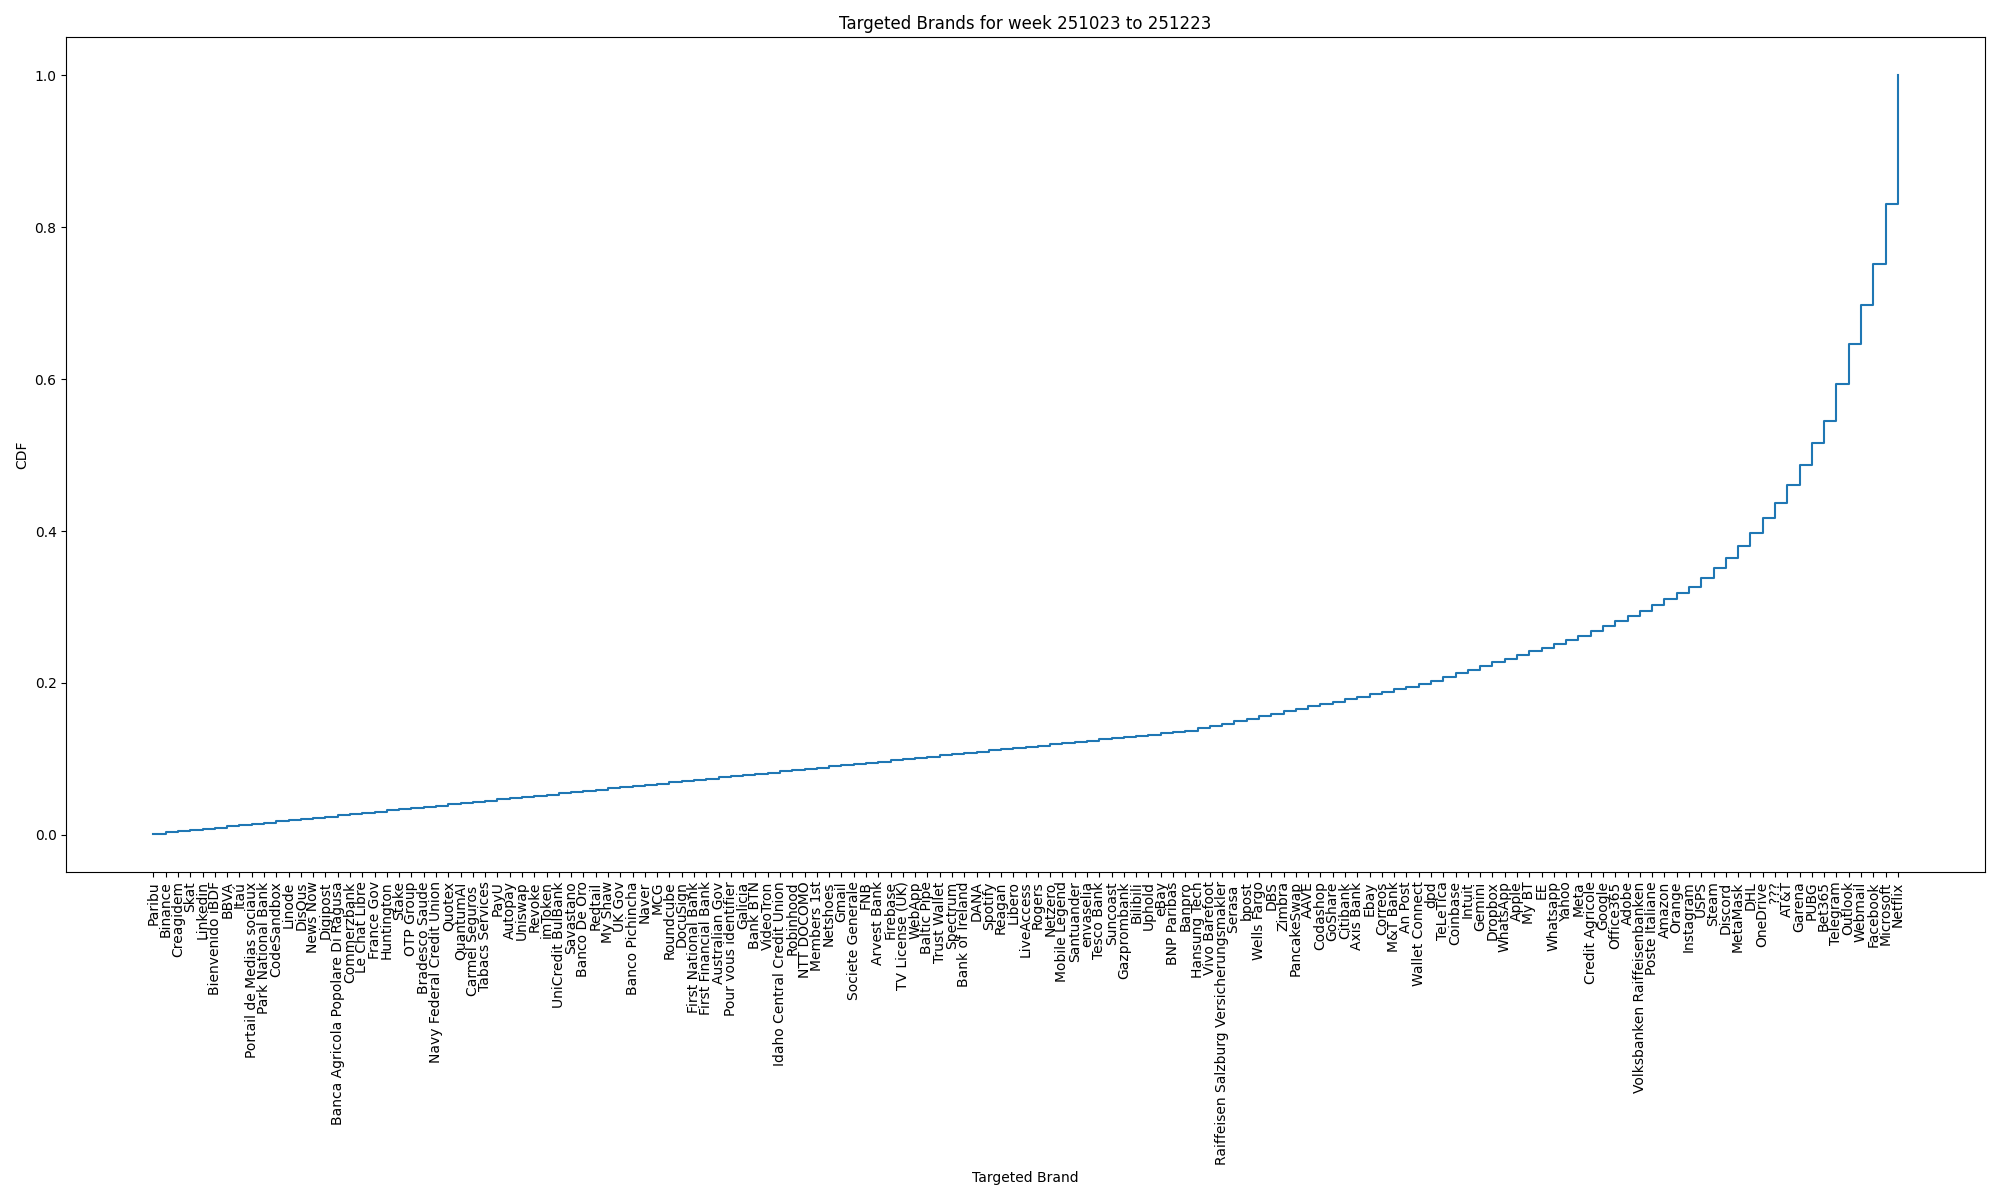
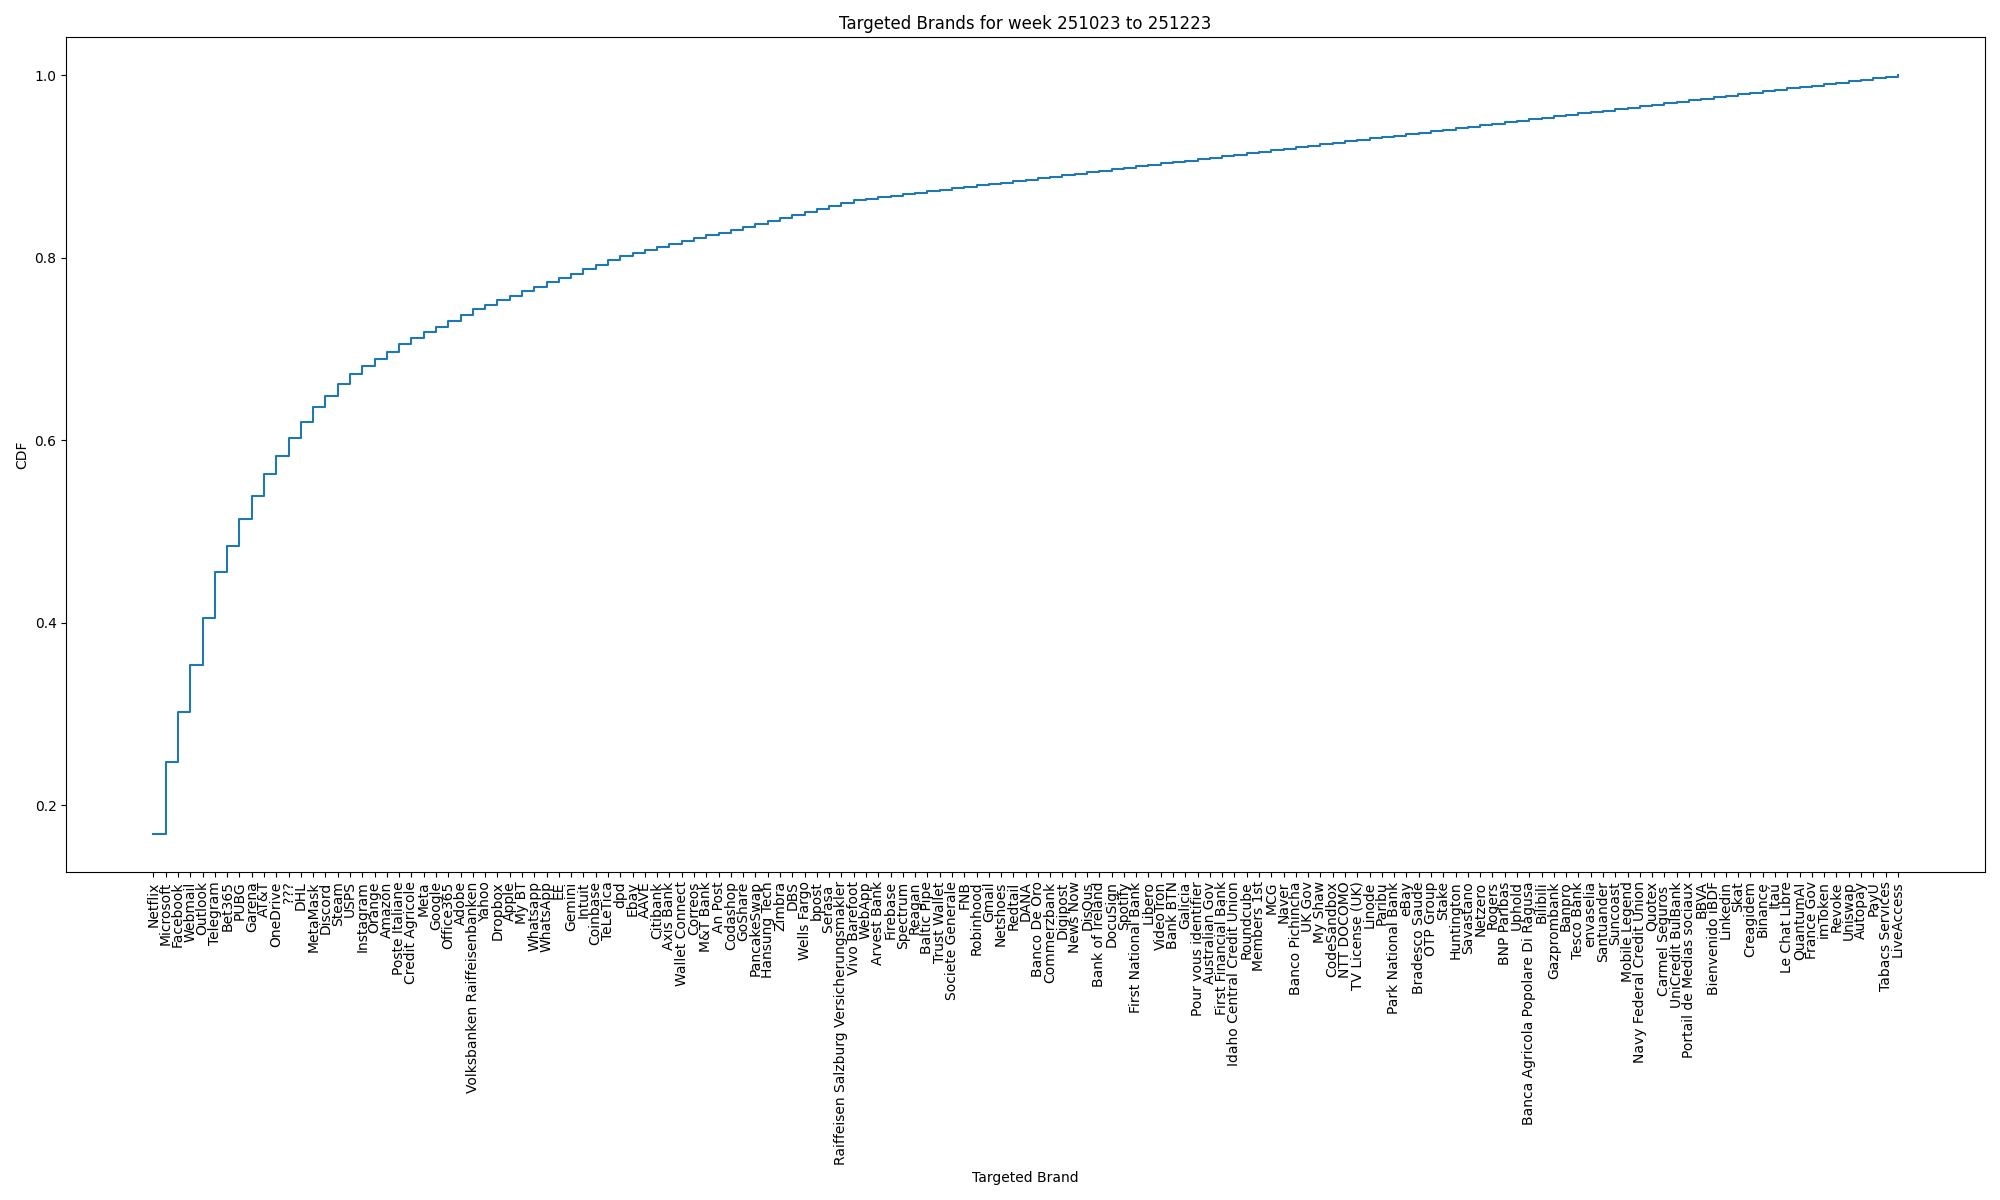
Update cdf plot

Changed region(s): [[0.062, 0.74, 0.961, 0.8942]]

diff --git a/Analyzer/target_visualizer/target_visualizer.py b/Analyzer/target_visualizer/target_visualizer.py
@@ -104,7 +104,7 @@ def generate_empirical_cdf_diagram(data_counts, start_date, end_date):
     df.columns = ['Brand', 'Count']
 
     # Sort the DataFrame by count
-    df = df.sort_values(by='Count')
+    df = df.sort_values(by='Count', ascending=False)
 
     # Calculate the cumulative sum of the counts
     df['Cumulative'] = df['Count'].cumsum()
